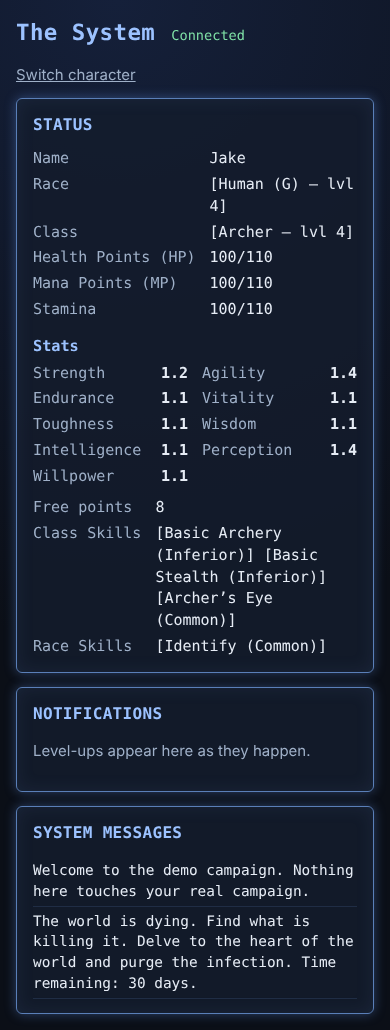
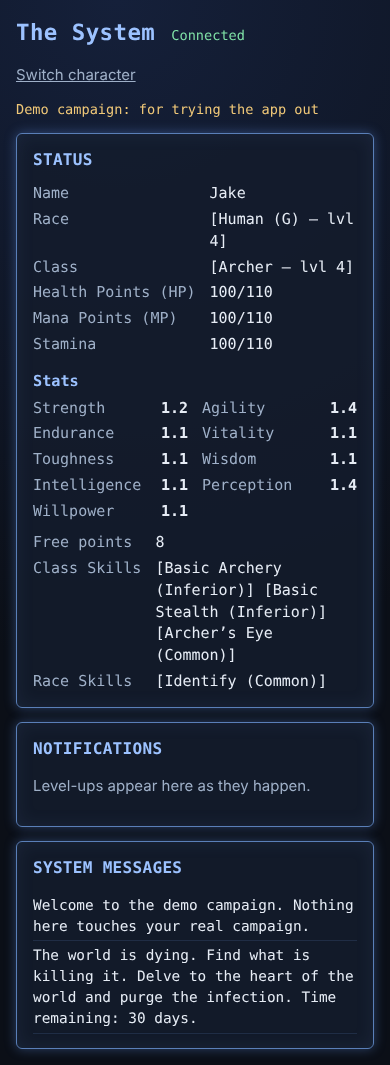
fix(MS.4): address review round 1 (players rejoin on their own after a switch, hello names the campaign so offline clients reset, one hub per campaign keeps notification history, confirm before loading the demo, demo badge on player screens, 409/500 on open/seed failure)
Claude-Session: https://claude.ai/code/session_01EH3wSXnASv7BtNqM8aQEyG

diff --git a/apps/web/src/live.ts b/apps/web/src/live.ts
@@ -25,7 +25,7 @@ export interface SeqNotification {
 }
 
 type ServerMessage =
-  | { type: 'hello'; protocol: number }
+  | { type: 'hello'; protocol: number; campaign?: string }
   | { type: 'joined'; role: 'gm' | 'player'; characterId: string | null; seq: number }
   | { type: 'view'; seq: number; view: PlayerView }
   | { type: 'state'; seq: number; state: CampaignState | null }
@@ -45,13 +45,15 @@ export interface LiveSnapshot {
   notifications: SeqNotification[];
   /** The server could not resend everything since our last seq (restart or history cap). */
   gap: boolean;
+  /** Campaign id the server says this connection serves (`demo` for the demo, MS.4). */
+  campaign: string | null;
 }
 
 export type CommandResult = { ok: true } | { ok: false; error: string };
 
 const RECONNECT_MS = 1000;
-/** Close code the server uses when the GM switches campaigns (1012 = service restart). */
-const CAMPAIGN_CHANGED = 1012;
+/** While the GM has another campaign open, a player keeps trying to rejoin at this pace. */
+const SWITCHED_RETRY_MS = 3000;
 
 export class LiveClient {
   private socket: WebSocket | null = null;
@@ -63,6 +65,7 @@ export class LiveClient {
     view: null,
     notifications: [],
     gap: false,
+    campaign: null,
   };
   private readonly listeners = new Set<(s: LiveSnapshot) => void>();
   private readonly pending = new Map<string, (r: CommandResult) => void>();
@@ -72,6 +75,8 @@ export class LiveClient {
   /** Joined at least once on this page: only then can a gap mean this page missed something. */
   private everJoined = false;
   private rejoining = false;
+  /** The campaign changed since this page last joined (MS.4 demo switch). */
+  private campaignChanged = false;
   private closed = false;
   private retry: ReturnType<typeof setTimeout> | null = null;
   private readonly join: JoinAs;
@@ -128,17 +133,16 @@ export class LiveClient {
       }
       this.handle(socket, message);
     });
-    socket.addEventListener('close', (event) => {
+    socket.addEventListener('close', () => {
       for (const resolve of this.pending.values()) resolve({ ok: false, error: 'Connection lost' });
       this.pending.clear();
-      if (event.code === CAMPAIGN_CHANGED) {
-        // The GM switched campaigns (real ↔ demo, MS.4): nothing from the old
-        // one may carry over, so rejoin as if this page were fresh.
-        this.lastSeq = 0;
-        this.everJoined = false;
-        this.update({ notifications: [], gap: false, state: null, view: null, seq: 0 });
+      if (this.closed) return;
+      if (this.snapshot.status === 'refused') {
+        // Our character is in the campaign the GM switched away from: wait for
+        // it to come back instead of giving up.
+        if (this.campaignChanged) this.retry = setTimeout(() => this.open(), SWITCHED_RETRY_MS);
+        return;
       }
-      if (this.closed || this.snapshot.status === 'refused') return;
       this.update({ status: 'offline' });
       this.retry = setTimeout(() => this.open(), RECONNECT_MS);
     });
@@ -147,6 +151,16 @@ export class LiveClient {
   private handle(socket: WebSocket, message: ServerMessage): void {
     switch (message.type) {
       case 'hello': {
+        const campaign = message.campaign ?? null;
+        if (this.snapshot.campaign !== null && campaign !== this.snapshot.campaign) {
+          // The GM switched campaigns (real ↔ demo, MS.4), maybe while we were
+          // offline: nothing from the other campaign may carry over.
+          this.lastSeq = 0;
+          this.everJoined = false;
+          this.campaignChanged = true;
+          this.update({ notifications: [], gap: false, state: null, view: null, seq: 0 });
+        }
+        if (campaign !== this.snapshot.campaign) this.update({ campaign });
         const join =
           this.join.role === 'gm'
             ? { type: 'join', role: 'gm', gmKey: this.join.gmKey }
@@ -157,6 +171,7 @@ export class LiveClient {
       }
       case 'joined':
         this.everJoined = true;
+        this.campaignChanged = false;
         this.update({ status: 'joined', error: null, seq: message.seq });
         return;
       case 'state':
@@ -194,8 +209,15 @@ export class LiveClient {
           this.snapshot.status !== 'joined' ||
           message.error === 'Your character no longer exists'
         ) {
-          // A refused join (bad key, unknown character) will not fix itself by retrying.
-          this.update({ status: 'refused', error: message.error });
+          // A refused join (bad key, unknown character) will not fix itself by
+          // retrying, unless the GM switched campaigns under us (retried on close).
+          const switched = this.campaignChanged && message.error === 'No such character';
+          this.update({
+            status: 'refused',
+            error: switched
+              ? 'The GM has switched to another campaign. This screen rejoins when they switch back.'
+              : message.error,
+          });
           socket.close();
         } else {
           this.update({ error: message.error });

diff --git a/e2e/MS.4.spec.ts b/e2e/MS.4.spec.ts
@@ -35,6 +35,11 @@ test('the GM loads the demo campaign and returns to the real one untouched', asy
 }) => {
   const gm = await browser.newPage({ viewport: { width: 1366, height: 768 } });
   const errors = watchErrors(gm);
+  const confirms: string[] = [];
+  gm.on('dialog', (d) => {
+    confirms.push(d.message());
+    void d.accept();
+  });
   await gm.goto(`${server.url}/gm#key=${GM_KEY}`);
   await gm.getByLabel('Campaign name').fill('My Real Campaign');
   await gm.getByRole('button', { name: 'Create campaign' }).click();
@@ -45,9 +50,21 @@ test('the GM loads the demo campaign and returns to the real one untouched', asy
   await gm.getByRole('button', { name: 'Award XP' }).click();
   await expect(gm.getByTestId('demo-badge')).toHaveCount(0);
 
+  // A player of the real campaign is at the table.
+  const ada = await browser.newPage({ viewport: { width: 390, height: 844 } });
+  const adaErrors = watchErrors(ada);
+  await ada.goto(server.url);
+  await ada.getByRole('link', { name: /Ada/ }).click();
+  await expect(ada.getByTestId('class')).toHaveText('[Archer – lvl 1]');
+  await expect(ada.getByTestId('dings').getByRole('listitem')).toHaveCount(2);
+
   // Load the demo: a different campaign with four characters at different levels.
   await gm.getByRole('button', { name: 'Load demo campaign' }).click();
   await expect(gm.getByTestId('demo-badge')).toBeVisible();
+  expect(confirms).toHaveLength(1);
+  // Ada's screen says what happened (and shows nothing of the demo).
+  await expect(ada.getByRole('alert')).toContainText('switched to another campaign');
+  await expect(ada.getByTestId('status')).toHaveCount(0);
   await expect(gm.getByRole('heading', { name: /Demo: The Whale/ })).toBeVisible();
   await expect.poll(() => partyNames(gm)).toEqual(['Jake', 'Miranda', 'Casper', 'Sultan']);
   const levels = await gm.locator('[data-testid^="class-level-"]').allInnerTexts();
@@ -68,6 +85,7 @@ test('the GM loads the demo campaign and returns to the real one untouched', asy
   ]);
   await phone.getByRole('link', { name: /Jake/ }).click();
   await expect(phone.getByTestId('class')).toHaveText('[Archer – lvl 4]');
+  await expect(phone.getByTestId('demo-badge')).toBeVisible();
   await expect(phone.getByTestId('messages')).toContainText('The world is dying.');
   await phone.screenshot({ path: path.join(shots, 'player-demo-390x844.png'), fullPage: true });
 
@@ -94,16 +112,27 @@ test('the GM loads the demo campaign and returns to the real one untouched', asy
   expect(exported).not.toContain('demo-');
   expect(exported).not.toContain('Demo: The Whale');
 
-  // The demo phone was dropped with the switch and does not fall back to real data.
-  await expect(phone.getByRole('alert')).toHaveText('No such character');
+  // Ada's screen rejoins on its own with her sheet and DINGs, nothing of the demo.
+  await expect(ada.getByTestId('class')).toHaveText('[Archer – lvl 1]', { timeout: 8000 });
+  await expect(ada.getByTestId('demo-badge')).toHaveCount(0);
+  await expect(ada.getByTestId('dings').getByRole('listitem')).toHaveCount(2);
+  await expect(ada.getByTestId('messages')).toHaveCount(0);
+  // The GM feed still holds the real campaign's DINGs (one hub per campaign).
+  await expect(gm.getByRole('listitem').filter({ hasText: 'Ada' }).first()).toBeVisible();
+  await expect(gm.getByRole('listitem').filter({ hasText: 'Sultan' })).toHaveCount(0);
+  // The demo phone waits with a notice instead of falling back to real data.
+  await expect(phone.getByRole('alert')).toContainText('switched to another campaign');
+  await expect(phone.getByTestId('status')).toHaveCount(0);
 
-  // Loading the demo again keeps what the GM did there.
+  // Loading the demo again keeps what the GM did there; the demo phone rejoins.
   await gm.getByRole('button', { name: 'Load demo campaign' }).click();
   await expect(gm.getByTestId('class-level-demo-sultan')).toHaveText('1');
+  await expect(phone.getByTestId('class')).toHaveText('[Archer – lvl 4]', { timeout: 8000 });
   await gm.getByRole('button', { name: 'Back to my campaign' }).click();
   await expect.poll(() => partyNames(gm)).toEqual(['Ada']);
 
   expect(errors).toEqual([]);
   expect(phoneErrors).toEqual([]);
-  await Promise.all([gm.close(), phone.close()]);
+  expect(adaErrors).toEqual([]);
+  await Promise.all([gm.close(), phone.close(), ada.close()]);
 });

diff --git a/apps/server/src/server.ts b/apps/server/src/server.ts
@@ -52,8 +52,8 @@ export async function createServer(options: CreateServerOptions): Promise<Fastif
   let active = options.live
     ? { store: options.live.store, hub: new LiveHub(options.live.store, options.live) }
     : null;
-  const opened = new Map<string, CampaignStore>();
-  if (options.live) opened.set(options.live.store.id, options.live.store);
+  const opened = new Map<string, { store: CampaignStore; hub: LiveHub }>();
+  if (active && options.live) opened.set(options.live.store.id, active);
   const sockets = new Set<{ close: (code: number, reason: string) => void }>();
 
   // Only /ws may be upgraded, and only from this server's own pages (or a
@@ -133,23 +133,47 @@ export async function createServer(options: CreateServerOptions): Promise<Fastif
     }
     const id = body.demo ? DEMO_CAMPAIGN_ID : realId;
     if (id === active.store.id) return { id, demo: body.demo };
-    let store = opened.get(id);
-    if (!store) {
-      store = options.openCampaign(id);
-      opened.set(id, store);
+    let next = opened.get(id);
+    if (!next) {
+      let store: CampaignStore;
+      try {
+        store = options.openCampaign(id);
+      } catch (error) {
+        app.log.error(error);
+        return reply.code(409).send({
+          error: error instanceof Error ? error.message : 'Could not open that campaign',
+        });
+      }
+      // A fresh demo directory is seeded once (one write); later loads keep what the GM did.
+      if (body.demo && store.campaign.events.length === 0) {
+        try {
+          store.appendAll(buildDemoEvents({ now: live.now, newId: live.newId }));
+        } catch (error) {
+          store.close();
+          app.log.error(error);
+          return reply.code(500).send({ error: 'Could not build the demo campaign' });
+        }
+      }
+      // One hub per campaign for the server's life, so switching back keeps its
+      // in-memory notification history.
+      next = { store, hub: new LiveHub(store, live) };
+      opened.set(id, next);
     }
-    // A fresh demo directory is seeded once; later loads keep what the GM did in it.
-    if (body.demo && store.campaign.events.length === 0) {
-      store.appendAll(buildDemoEvents({ now: live.now, newId: live.newId }));
-    }
-    active = { store, hub: new LiveHub(store, live) };
+    active = next;
     for (const socket of [...sockets]) socket.close(1012, 'Campaign changed');
     sockets.clear();
     return { id, demo: body.demo };
   });
   app.addHook('onClose', () => {
     // The caller closes the store it passed in; close the ones opened here.
-    for (const [id, store] of opened) if (id !== realId) store.close();
+    for (const [id, { store }] of opened) {
+      if (id === realId) continue;
+      try {
+        store.close();
+      } catch (error) {
+        app.log.error(error);
+      }
+    }
   });
 
   // Join list: the only campaign data any LAN client may read over HTTP.

diff --git a/apps/server/test/demo.test.ts b/apps/server/test/demo.test.ts
@@ -117,6 +117,21 @@ describe('demo campaign switch', () => {
     expect(await names()).toEqual(['Ada']);
   });
 
+  it('names the campaign in every hello so clients can reset on a switch', async () => {
+    const hello = async () => {
+      const ws = new WebSocket(`ws://${base}/ws`);
+      const first = await new Promise<Record<string, unknown>>((resolve) =>
+        ws.addEventListener('message', (e) => resolve(JSON.parse(String(e.data)))),
+      );
+      ws.close();
+      return first;
+    };
+    expect(await hello()).toMatchObject({ type: 'hello', campaign: 'main' });
+    await gm('POST', { demo: true });
+    expect(await hello()).toMatchObject({ type: 'hello', campaign: DEMO_CAMPAIGN_ID });
+    await gm('POST', { demo: false });
+  });
+
   it('keeps the demo as the GM left it on a later load (seeded once)', async () => {
     await gm('POST', { demo: true });
     const first = await names();
@@ -125,5 +140,32 @@ describe('demo campaign switch', () => {
     expect(await names()).toEqual(first);
     expect(await (await gm('GET')).json()).toEqual({ id: DEMO_CAMPAIGN_ID, demo: true });
     await gm('POST', { demo: false });
+  });
+});
+
+describe('demo campaign switch without a campaign opener', () => {
+  it('answers 404', async () => {
+    const dir = mkdtempSync(path.join(tmpdir(), 'the-system-demo-none-'));
+    const dataDir = mkdtempSync(path.join(tmpdir(), 'the-system-demo-none-data-'));
+    writeFileSync(path.join(dir, 'index.html'), '<!doctype html><title>shell</title>');
+    const store = CampaignStore.open('main', { dataDir, now: () => '2026-10-21T00:00:00.000Z' });
+    const app = await createServer({
+      webRoot: dir,
+      live: { store, gmKey: GM_KEY, now: () => '2026-10-21T00:00:00.000Z', newId: () => 'x' },
+    });
+    try {
+      const res = await app.inject({
+        method: 'POST',
+        url: '/api/gm/campaign',
+        headers: { 'x-gm-key': GM_KEY, host: 'localhost' },
+        payload: { demo: true },
+      });
+      expect(res.statusCode).toBe(404);
+    } finally {
+      await app.close();
+      store.close();
+      rmSync(dir, { recursive: true, force: true });
+      rmSync(dataDir, { recursive: true, force: true });
+    }
   });
 });

diff --git a/apps/server/src/protocol.ts b/apps/server/src/protocol.ts
@@ -11,14 +11,20 @@ export interface HelloMessage {
   protocol: number;
   server: 'the-system';
   engineApiVersion: number;
+  /**
+   * Which campaign this connection serves (MS.4: the real one or the demo).
+   * Clients reset what they hold when it changes. Omitted without a campaign.
+   */
+  campaign?: string;
 }
 
-export function helloMessage(): HelloMessage {
+export function helloMessage(campaign?: string): HelloMessage {
   return {
     type: 'hello',
     protocol: PROTOCOL_VERSION,
     server: 'the-system',
     engineApiVersion: ENGINE_API_VERSION,
+    ...(campaign === undefined ? {} : { campaign }),
   };
 }
 

diff --git a/apps/web/src/player/PlayerScreen.tsx b/apps/web/src/player/PlayerScreen.tsx
@@ -79,6 +79,11 @@ export function PlayerScreen({ characterId }: { characterId: string }) {
           </a>
         )}
       </header>
+      {live.campaign === 'demo' && (
+        <p className="demo-badge" data-testid="demo-badge">
+          Demo campaign: for trying the app out
+        </p>
+      )}
       {pane && <PaneLatest live={live} view={view} />}
       {(live.status === 'refused' || live.error) && (
         <p className="err" role="alert">

diff --git a/apps/web/src/gm/CampaignSwitch.tsx b/apps/web/src/gm/CampaignSwitch.tsx
@@ -25,6 +25,14 @@ export function CampaignSwitch({ gmKey, stateName }: { gmKey: string; stateName:
   }, [gmKey, stateName]);
 
   const switchTo = async (wantDemo: boolean) => {
+    if (
+      wantDemo &&
+      !window.confirm(
+        'Load the demo campaign? Players in your campaign see a “switched campaign” notice until you come back.',
+      )
+    ) {
+      return;
+    }
     setBusy(true);
     setError(null);
     try {

diff --git a/apps/server/src/hub.ts b/apps/server/src/hub.ts
@@ -70,7 +70,7 @@ export class LiveHub {
   connect(send: (message: ServerMessage) => void): Connection {
     const client: Client = { role: { role: 'none' }, send };
     this.clients.add(client);
-    send(helloMessage());
+    send(helloMessage(this.store.id));
     return {
       receive: (raw) => this.receive(client, raw),
       close: () => this.clients.delete(client),
